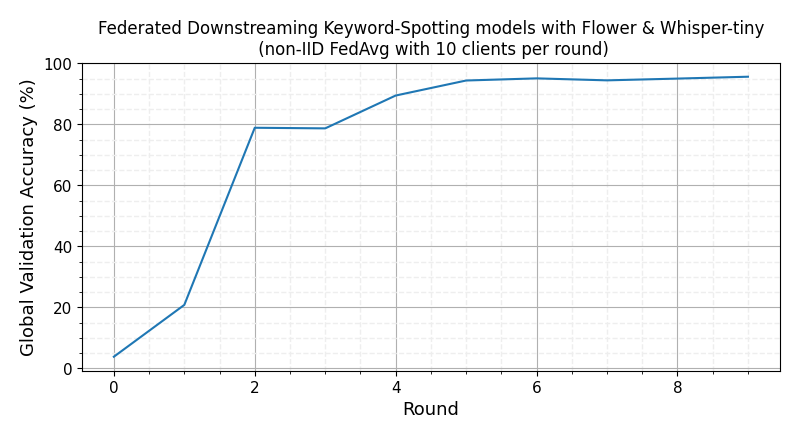
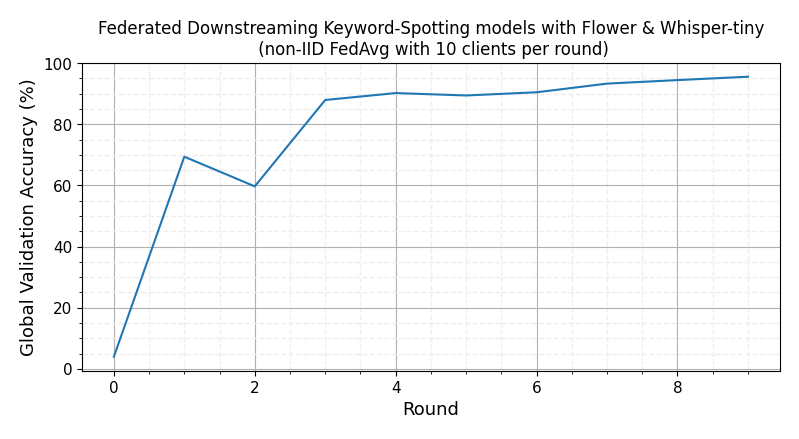
format and update line plot from log shown on readme

diff --git a/examples/whisper-federated-finetuning/client.py b/examples/whisper-federated-finetuning/client.py
@@ -167,7 +167,11 @@ def run_client():
     prepare_dataset_fn = get_encoding_fn(processor)
 
     client_fn = get_client_fn(
-        sc_train, prepare_dataset_fn, client_mapping, compile=not (args.no_compile), client_data_path=CLIENT_DATA
+        sc_train,
+        prepare_dataset_fn,
+        client_mapping,
+        compile=not (args.no_compile),
+        client_data_path=CLIENT_DATA,
     )
 
     fl.client.start_numpy_client(
